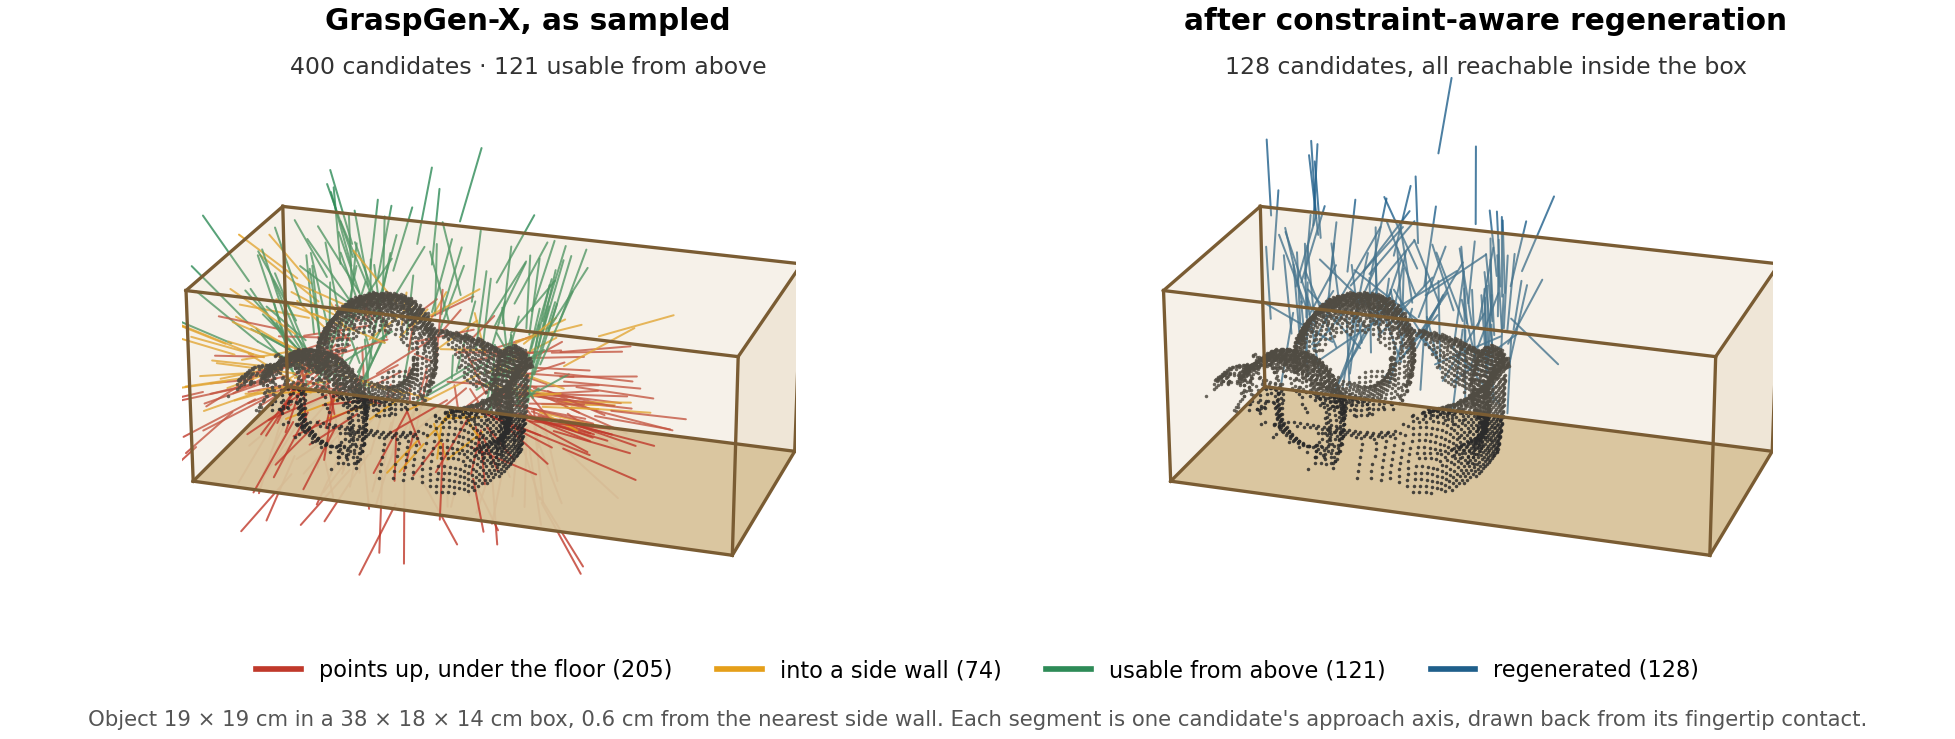
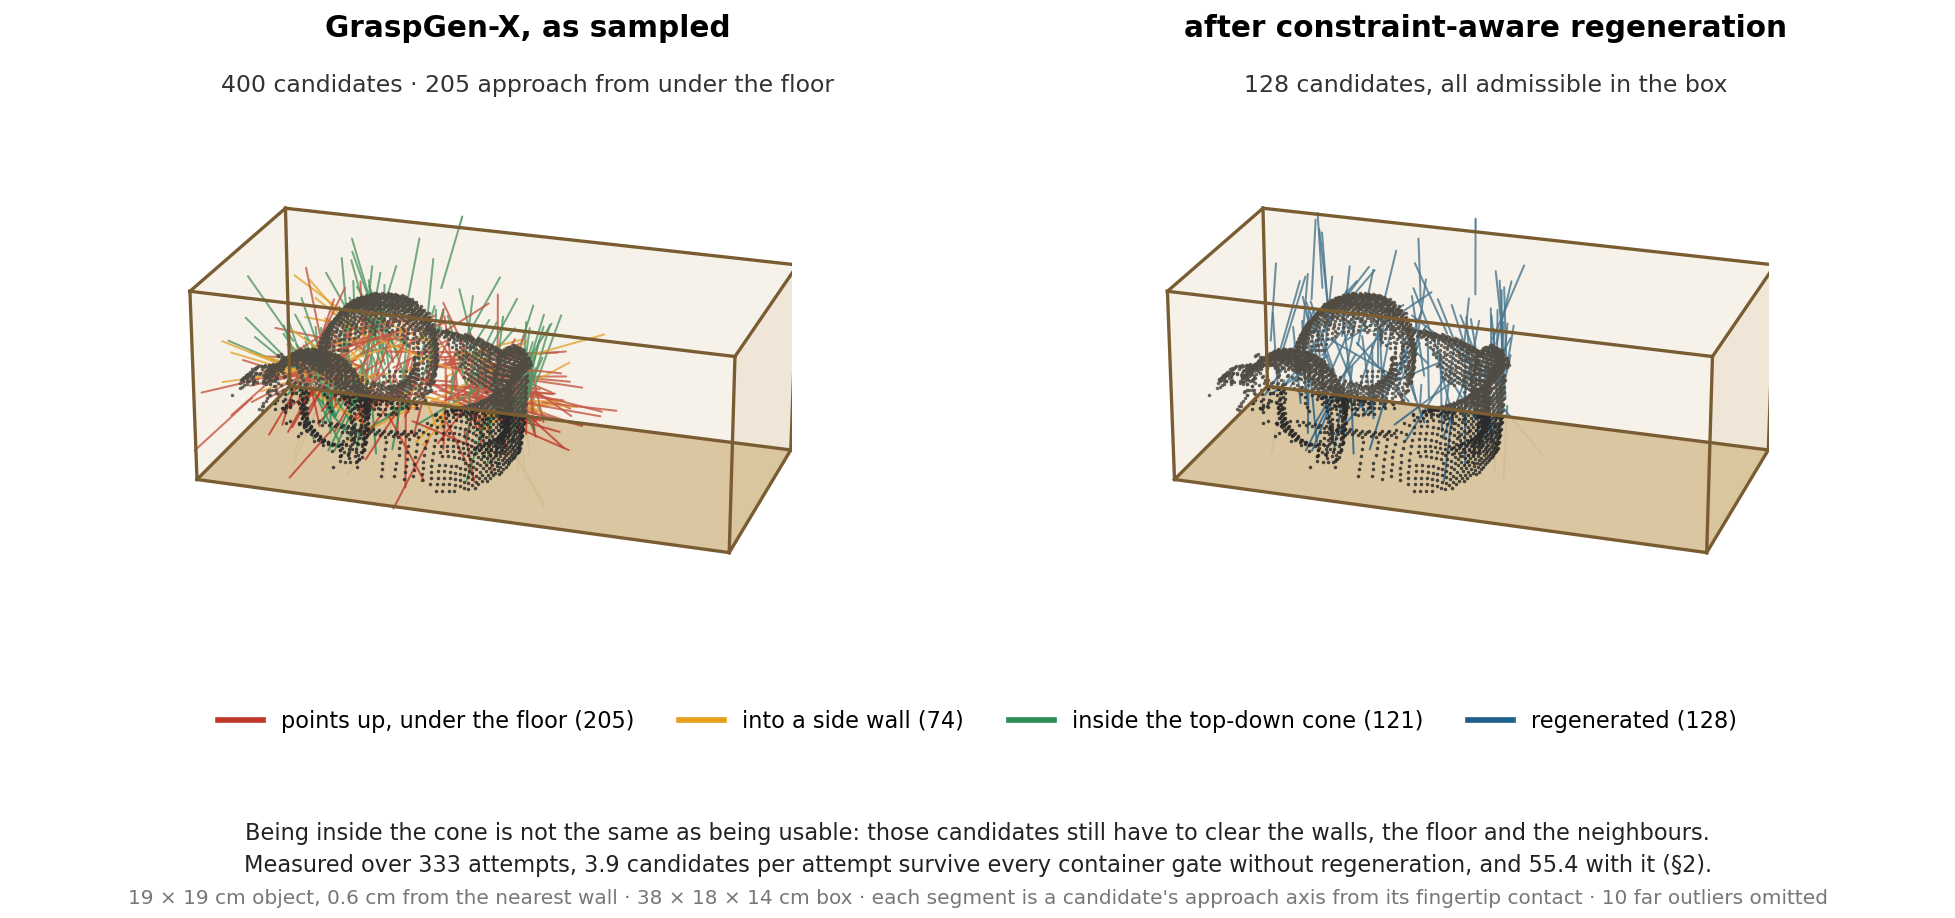
Correct the fingertip contact offset (0.1865 m), drop far outliers, and stop the header figure inviting a false raw-vs-regenerated comparison

diff --git a/scripts/make_hedgehog.py b/scripts/make_hedgehog.py
@@ -17,7 +17,12 @@ from mpl_toolkits.mplot3d.art3d import Poly3DCollection
 HERE = os.path.dirname(os.path.abspath(__file__))
 D, F = os.path.join(HERE, "..", "data", "examples"), os.path.join(HERE, "..", "figures")
 STUB = 0.055          # drawn length of each approach segment, from the fingertip contact backwards
-CO = 0.1365           # GraspGen frame origin -> fingertip contact along +Z (our WSG-50 descriptor)
+CO = 0.1865           # grasp frame origin -> fingertip closing point along +Z:
+                      # 0.1365 m + the 0.05 m finger extension of our long-finger WSG-50
+                      # (hand_lab._close_off). Checked against the clouds: with this value
+                      # the contact points sit a median of 1.5 cm from the object surface.
+MAX_D = 0.05          # candidates whose contact lands further than this from the cloud are
+                      # not drawn (2-3 per panel): they are sampler outliers and only add clutter
 UP, CONE = 90.0, 60.0
 C_UP, C_SIDE, C_CONE, C_REG = "#c0392b", "#e59f1a", "#2e8b57", "#1f5f8b"
 C_CLOUD, C_BOX, C_FLOOR = "#2b2b2b", "#7a5c33", "#d8c39b"
@@ -40,6 +45,11 @@ def draw_box(ax, b):
     for a, b_ in [(0, 1), (1, 2), (2, 3), (3, 0), (4, 5), (5, 6), (6, 7), (7, 4), (0, 4), (1, 5), (2, 6), (3, 7)]:
         ax.plot(*zip(P[a], P[b_]), color=C_BOX, lw=1.4, zorder=5)
 
+def near_cloud(p, cloud, dmax=MAX_D):
+    """Mask of contact points within dmax of the object's point cloud."""
+    d = np.sqrt(((p[:, None, :] - cloud[None, ::3, :]) ** 2).sum(-1)).min(1)
+    return d <= dmax
+
 def panel(ax, cloud, G, b, colour, title, sub):
     # mplot3d's automatic depth sorting paints the opaque floor over the point cloud;
     # order the artists by hand instead (segments below 0 · floor 1 · segments above 2 ·
@@ -47,6 +57,8 @@ def panel(ax, cloud, G, b, colour, title, sub):
     ax.computed_zorder = False
     draw_box(ax, b)
     a, c, ang = geom(G)
+    keep = near_cloud(a, cloud)
+    a, c, ang = a[keep], c[keep], ang[keep]
     for i in range(len(a)):
         under = min(a[i, 2], c[i, 2]) < b["z0"]          # segment escaping below the box floor
         ax.plot([a[i, 0], c[i, 0]], [a[i, 1], c[i, 1]], [a[i, 2], c[i, 2]],
@@ -67,29 +79,34 @@ def main() -> int:
     cloud, raw, reg = z["object_cloud"], z["raw_grasps"], z["regenerated_grasps"]
     ang = geom(raw)[2]
     n_up, n_side, n_cone = int((ang > UP).sum()), int(((ang > CONE) & (ang <= UP)).sum()), int((ang <= CONE).sum())
+    n_far = int((~near_cloud(geom(raw)[0], cloud)).sum() + (~near_cloud(geom(reg)[0], cloud)).sum())
 
-    fig = plt.figure(figsize=(11.5, 4.35))
+    fig = plt.figure(figsize=(11.5, 5.4))
     ax1 = fig.add_subplot(1, 2, 1, projection="3d"); ax2 = fig.add_subplot(1, 2, 2, projection="3d")
     panel(ax1, cloud, raw, b, lambda t: C_UP if t > UP else (C_SIDE if t > CONE else C_CONE), "", "")
     panel(ax2, cloud, reg, b, lambda t: C_REG, "", "")
-    for x, t, sub in ((0.27, "GraspGen-X, as sampled", f"400 candidates · {n_cone} usable from above"),
-                      (0.76, "after constraint-aware regeneration", f"{len(reg)} candidates, all reachable inside the box")):
+    for x, t, sub in ((0.27, "GraspGen-X, as sampled", f"400 candidates · {n_up} approach from under the floor"),
+                      (0.76, "after constraint-aware regeneration", f"{len(reg)} candidates, all admissible in the box")):
         fig.text(x, 0.96, t, ha="center", fontsize=12.5, fontweight="bold")
         fig.text(x, 0.90, sub, ha="center", fontsize=10, color="#333")
     hs = [plt.Line2D([], [], color=c, lw=2.4) for c in (C_UP, C_SIDE, C_CONE, C_REG)]
     fig.legend(hs, [f"points up, under the floor ({n_up})", f"into a side wall ({n_side})",
-                    f"usable from above ({n_cone})", f"regenerated ({len(reg)})"],
-               loc="lower center", ncol=4, frameon=False, fontsize=9.5, bbox_to_anchor=(0.5, 0.05))
+                    f"inside the top-down cone ({n_cone})", f"regenerated ({len(reg)})"],
+               loc="lower center", ncol=4, frameon=False, fontsize=9.5, bbox_to_anchor=(0.5, 0.18))
     ext = 100 * (cloud.max(0) - cloud.min(0))
     ins = ((cloud[:, 0] > b["x0"]) & (cloud[:, 0] < b["x1"]) & (cloud[:, 1] > b["y0"]) & (cloud[:, 1] < b["y1"]))
     lo, hi = np.percentile(cloud[ins], [2, 98], axis=0)
     gap = 100 * min(lo[1] - b["y0"], b["y1"] - hi[1])
-    fig.text(0.5, 0.018, f"Object {ext[0]:.0f} × {ext[1]:.0f} cm in a "
-                         f"{100 * (b['x1'] - b['x0']):.0f} × {100 * (b['y1'] - b['y0']):.0f} × "
-                         f"{100 * (b['z1'] - b['z0']):.0f} cm box, {gap:.1f} cm from the nearest side wall. "
-                         f"Each segment is one candidate's approach axis, drawn back from its fingertip contact.",
-             ha="center", fontsize=9, color="#555")
-    fig.subplots_adjust(left=0.0, right=1.0, top=0.93, bottom=0.10, wspace=0.0)
+    fig.text(0.5, 0.105, "Being inside the cone is not the same as being usable: those candidates still have "
+             "to clear the walls, the floor and the neighbours.\nMeasured over 333 attempts, 3.9 candidates per "
+             "attempt survive every container gate without regeneration, and 55.4 with it (§2).",
+             ha="center", va="top", fontsize=9.5, color="#222", linespacing=1.5)
+    fig.text(0.5, 0.015, f"{ext[0]:.0f} × {ext[1]:.0f} cm object, {gap:.1f} cm from the nearest wall · "
+             f"{100 * (b['x1'] - b['x0']):.0f} × {100 * (b['y1'] - b['y0']):.0f} × "
+             f"{100 * (b['z1'] - b['z0']):.0f} cm box · each segment is a candidate's approach axis from its "
+             f"fingertip contact · {n_far} far outliers omitted",
+             ha="center", fontsize=8.5, color="#777")
+    fig.subplots_adjust(left=0.0, right=1.0, top=0.94, bottom=0.28, wspace=0.0)
     out = os.path.join(F, f"fig0_hedgehog_{obj}.png")
     fig.savefig(out, dpi=170); plt.close(fig)
     print(f"{obj}: raw 400 (up {n_up}, side {n_side}, cone {n_cone}) -> regenerated {len(reg)} · {out}")
